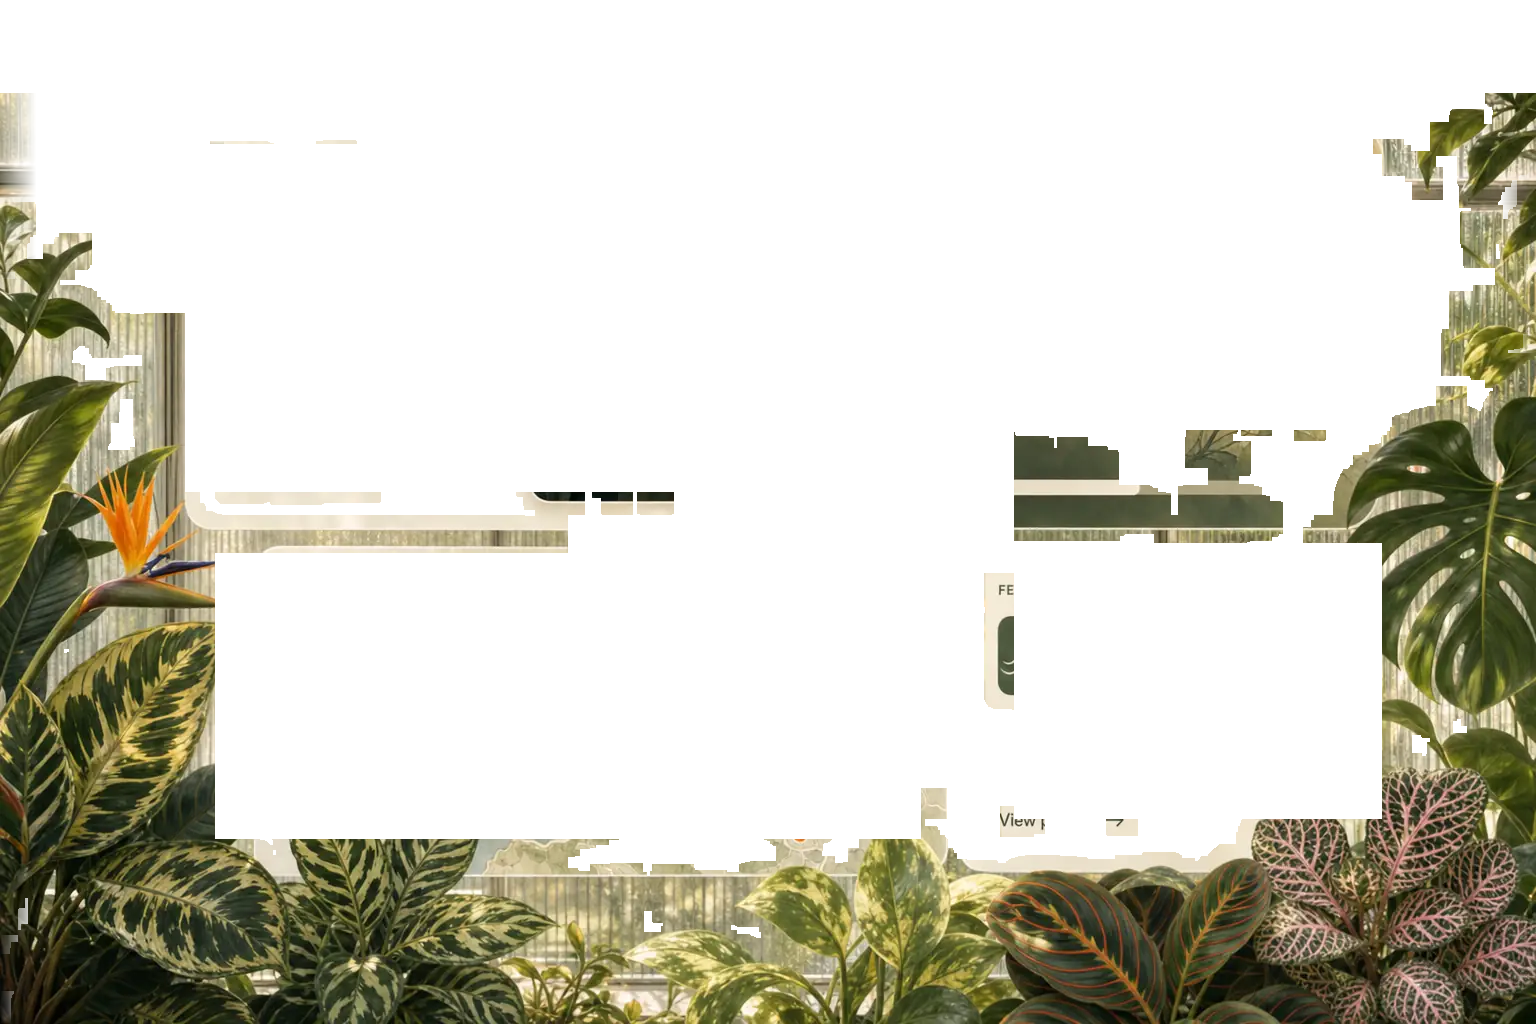
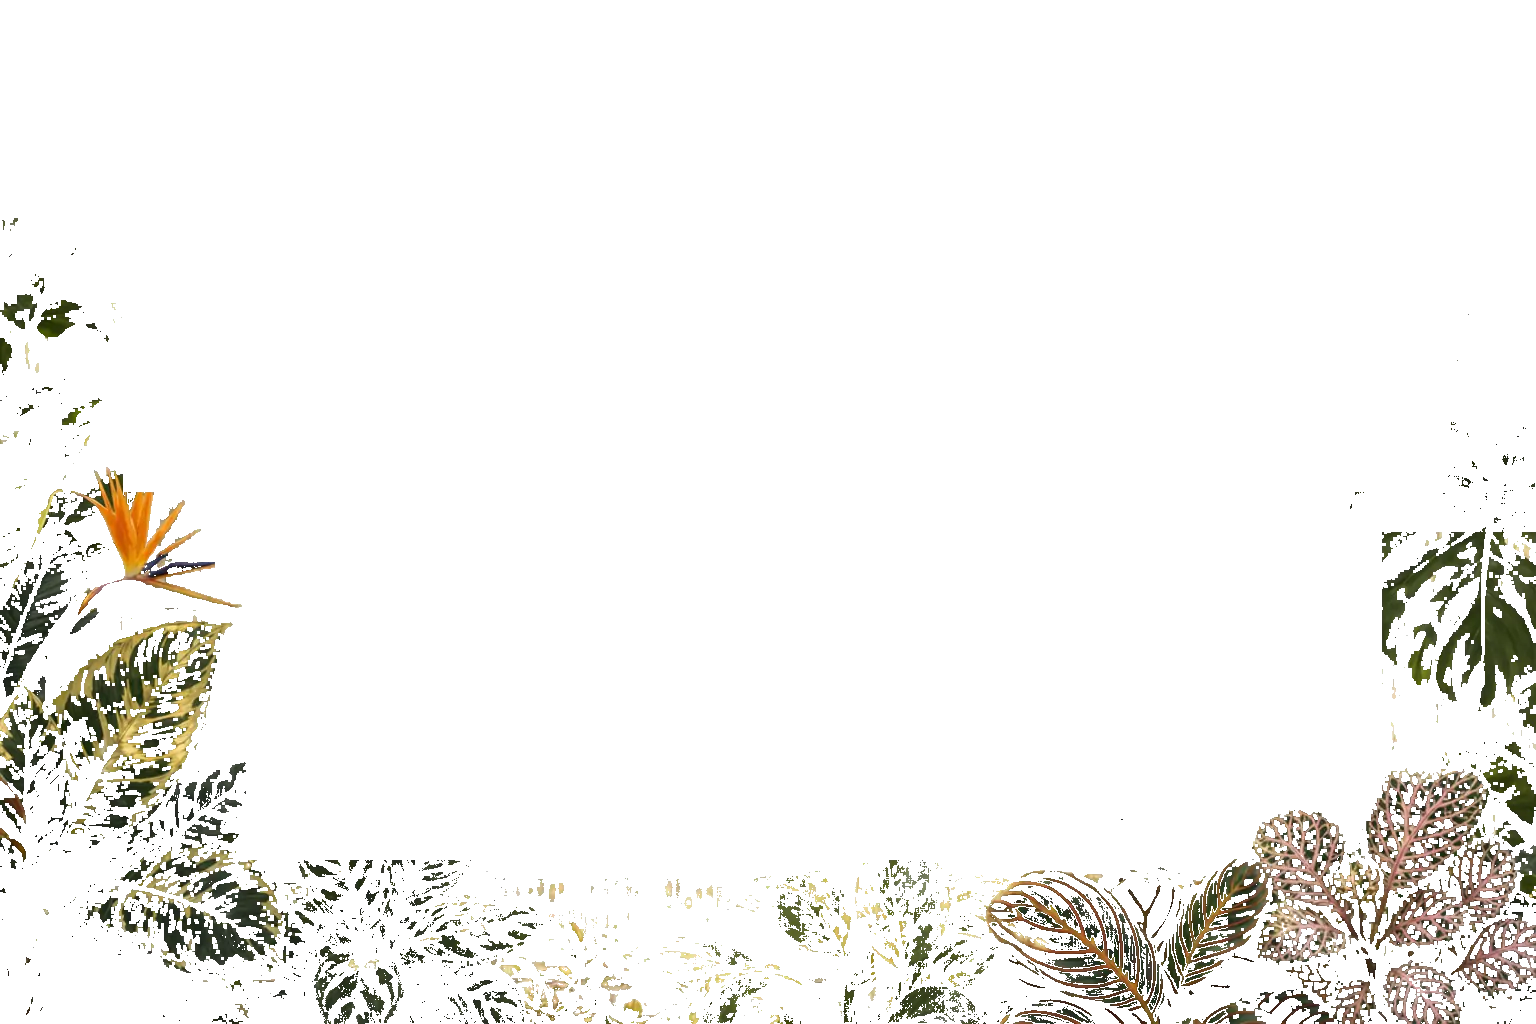
Stop painting inspo cards through the greenhouse plant layer
The desktop fragment band was leftover opaque pixels from the
inspiration screenshot sitting in front of the live intro, portrait,
and now-playing cards. Rebuild the photograph as plant-only alpha with
copy wells, drop the mid-viewport mullions that showed through frost,
and give mobile its own portrait frame so side thickets are not
cover-cropped into a footer.

Changed region(s): [[0.0, 0.0938, 1.0, 1.0], [0.625, 0.5625, 0.6875, 0.6875]]

diff --git a/apps/web/src/app/greenhouse/__tests__/greenhouseChrome.test.ts b/apps/web/src/app/greenhouse/__tests__/greenhouseChrome.test.ts
@@ -6,13 +6,18 @@ describe('greenhouse chrome', () => {
     const dir = join(__dirname, '../foliage');
     const files = readdirSync(dir).filter((name) => name.endsWith('.webp'));
     expect(files.length).toBeGreaterThanOrEqual(4);
-    const sprites = files.filter((name) => name !== 'home-frame.webp');
+    const sprites = files.filter(
+      (name) => name !== 'home-frame.webp' && name !== 'home-frame-mobile.webp',
+    );
     const spriteBytes = sprites.reduce((sum, name) => sum + statSync(join(dir, name)).size, 0);
     expect(spriteBytes).toBeLessThan(175 * 1024);
     expect(files).toContain('home-frame.webp');
+    expect(files).toContain('home-frame-mobile.webp');
     expect(files.some((name) => name.startsWith('frame-'))).toBe(false);
     expect(statSync(join(dir, 'home-frame.webp')).size).toBeLessThan(130 * 1024);
     expect(statSync(join(dir, 'home-frame.webp')).size).toBeGreaterThan(40 * 1024);
+    expect(statSync(join(dir, 'home-frame-mobile.webp')).size).toBeLessThan(140 * 1024);
+    expect(statSync(join(dir, 'home-frame-mobile.webp')).size).toBeGreaterThan(20 * 1024);
   });
 
   it('keeps the glass atmosphere raster small', () => {
@@ -34,6 +39,7 @@ describe('greenhouse chrome', () => {
     expect(css).not.toContain('#90ae7a');
     expect(css).not.toContain('#e2d4b0');
     expect(css).toContain('.homeFrame');
+    expect(css).toContain('.homeFrameMobile');
     expect(css).toContain('object-fit: cover');
     expect(css).not.toContain('mask-composite');
     expect(css).not.toContain('.frameLeft');
@@ -51,6 +57,7 @@ describe('greenhouse chrome', () => {
     const frame = readFileSync(join(__dirname, '../GreenhousePlantFrame.tsx'), 'utf8');
     expect(frame).toContain('aria-hidden');
     expect(frame).toContain('home-frame.webp');
+    expect(frame).toContain('home-frame-mobile.webp');
     expect(frame).not.toContain('frame-left.webp');
     expect(frame).not.toContain('<use');
   });

diff --git a/apps/web/src/app/greenhouse/GreenhousePlantFrame.tsx b/apps/web/src/app/greenhouse/GreenhousePlantFrame.tsx
@@ -1,24 +1,38 @@
 import frame from './foliage/home-frame.webp';
+import frameMobile from './foliage/home-frame-mobile.webp';
 import styles from './greenhouse.module.css';
 
 /**
- * One photographic plant layer at inspo native size (1536×1024). Alpha is a
- * foliage mask plus copy wells — not left/right/bottom strips and not
- * card-shaped punches. CSS sizes it with object-fit: cover so it is never
- * stretched past a display-sized source.
+ * Photographic plant layer. Desktop uses the landscape frame at inspo native
+ * size (1536×1024). Mobile uses a portrait frame so side thickets stay in
+ * frame — a landscape `object-fit: cover` crop was throwing them away.
+ * Alpha is foliage plus copy wells, not card-shaped punches.
  */
 export function GreenhousePlantFrame() {
   return (
-    <img
-      alt=""
-      aria-hidden="true"
-      className={styles.homeFrame}
-      decoding="async"
-      draggable={false}
-      fetchPriority="low"
-      height={frame.height}
-      src={frame.src}
-      width={frame.width}
-    />
+    <>
+      <img
+        alt=""
+        aria-hidden="true"
+        className={styles.homeFrame}
+        decoding="async"
+        draggable={false}
+        fetchPriority="low"
+        height={frame.height}
+        src={frame.src}
+        width={frame.width}
+      />
+      <img
+        alt=""
+        aria-hidden="true"
+        className={styles.homeFrameMobile}
+        decoding="async"
+        draggable={false}
+        fetchPriority="low"
+        height={frameMobile.height}
+        src={frameMobile.src}
+        width={frameMobile.width}
+      />
+    </>
   );
 }

diff --git a/apps/web/src/app/greenhouse/GreenhouseFrame.tsx b/apps/web/src/app/greenhouse/GreenhouseFrame.tsx
@@ -54,9 +54,6 @@ export function GreenhouseFrame({ children, surface, chrome = true }: Greenhouse
                 <span className={styles.mullionV} style={{ left: '80%' }} />
                 <span className={styles.mullionV} style={{ left: 'calc(100% - 7px)' }} />
                 <span className={styles.mullionH} style={{ top: '0%' }} />
-                <span className={styles.mullionH} style={{ top: '16%' }} />
-                <span className={styles.mullionH} style={{ top: '38%' }} />
-                <span className={styles.mullionH} style={{ top: '68%' }} />
                 <span className={styles.mullionH} style={{ bottom: '0%' }} />
               </div>
             </div>

diff --git a/apps/web/src/app/greenhouse/greenhouse.module.css b/apps/web/src/app/greenhouse/greenhouse.module.css
@@ -224,15 +224,24 @@
   transform-origin: 50% 50%;
 }
 
-.homeFrame {
+.homeFrame,
+.homeFrameMobile {
   position: absolute;
   inset: 0;
   width: 100%;
   height: 100%;
   pointer-events: none;
+  image-rendering: auto;
+}
+
+.homeFrame {
   object-fit: cover;
   object-position: center bottom;
-  image-rendering: auto;
+}
+
+.homeFrameMobile {
+  display: none;
+  object-fit: fill;
 }
 
 .content {
@@ -256,6 +265,14 @@
   .plantsBack [data-cluster="side"],
   .plantsFront [data-cluster="side"] {
     display: none;
+  }
+
+  .homeFrame {
+    display: none;
+  }
+
+  .homeFrameMobile {
+    display: block;
   }
 
   .plant {
